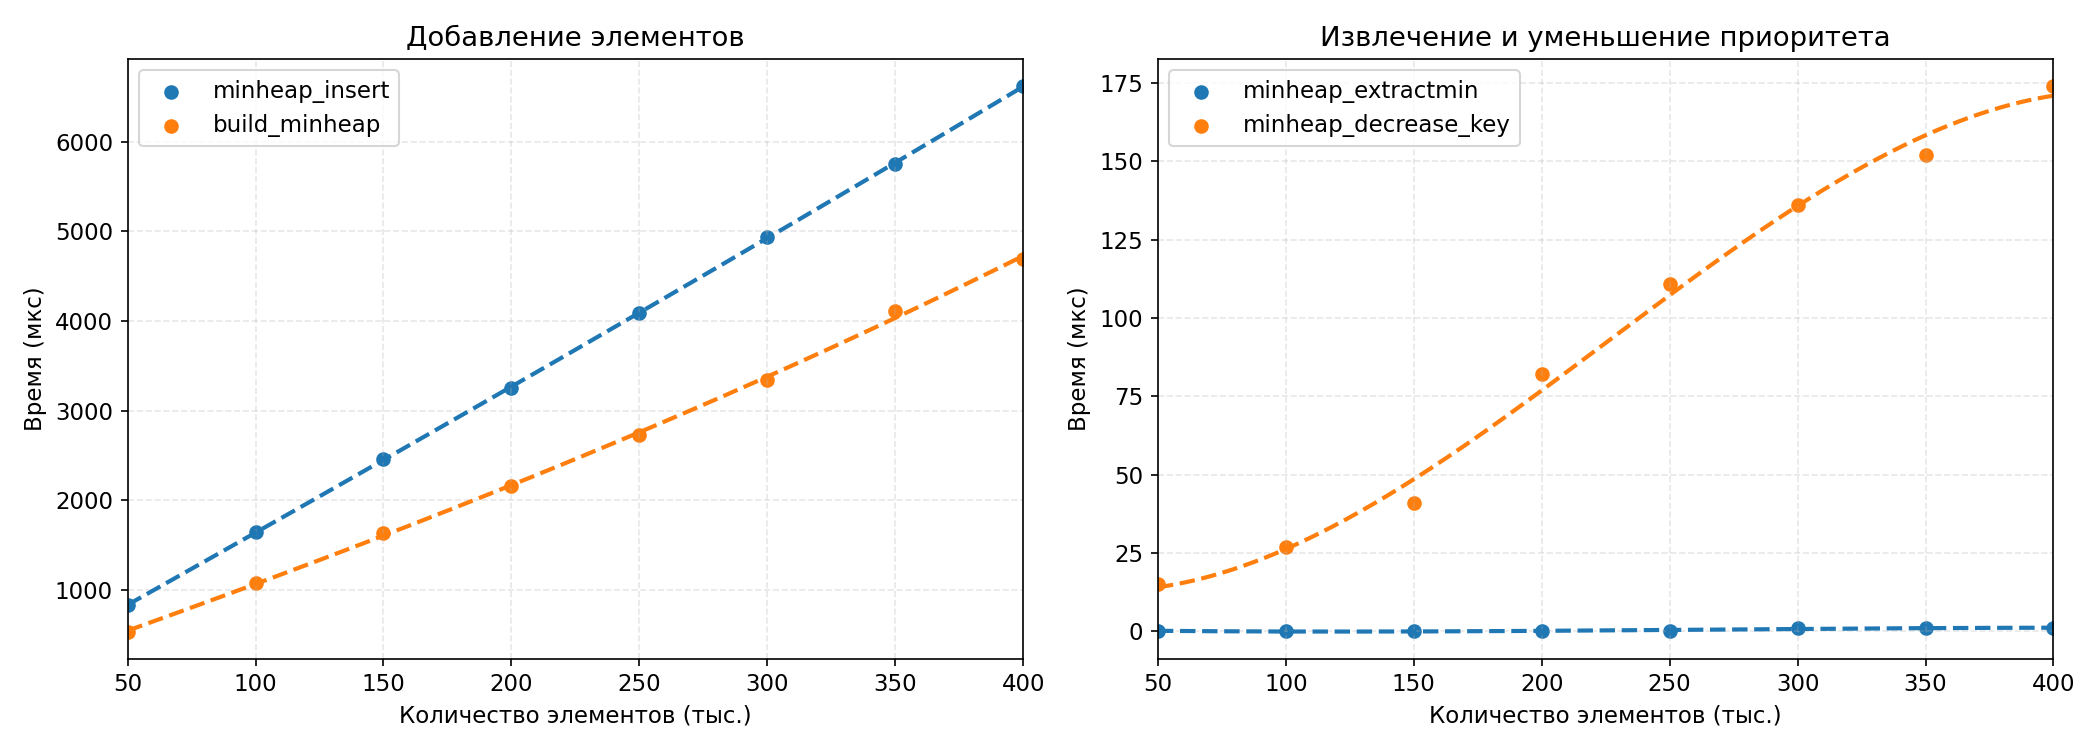
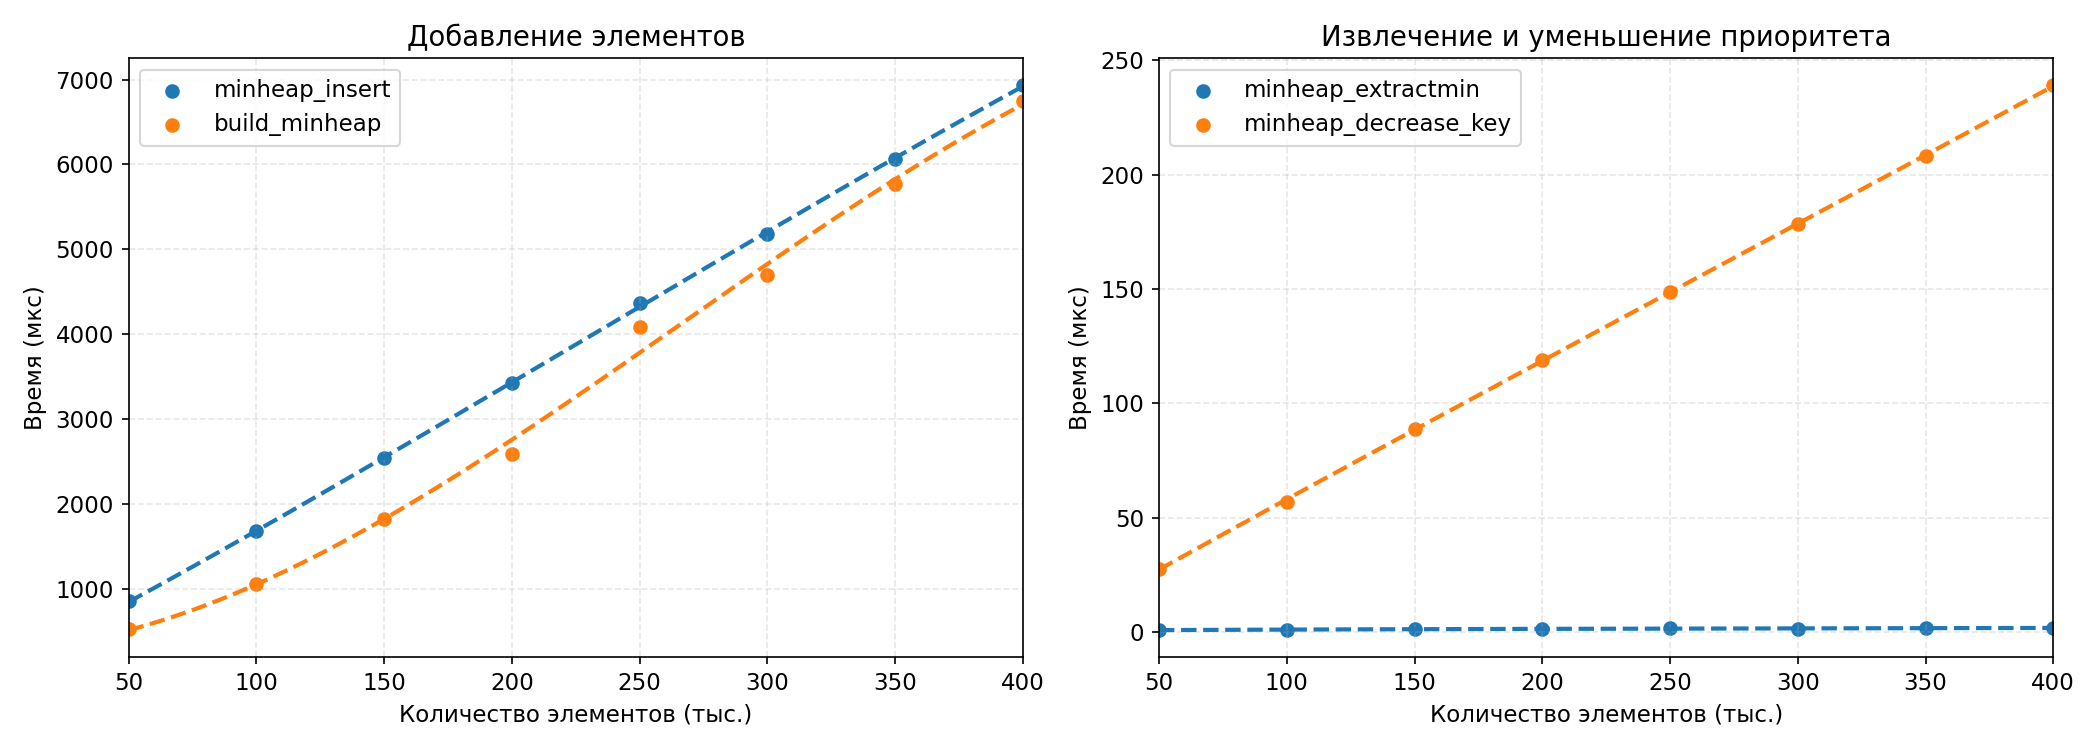
update defense materials and experiment results
- add table of contents to DEFENSE.md
- add full analysis of both benchmark tables (ratios, growth rates, cache effects)
- add section 9 with 12 tricky professor questions
- fix REPEAT value in DEFENSE.md (1000, not 10000)
- update res.txt and results.png with latest benchmark run

diff --git a/experiment/main.c b/experiment/main.c
@@ -16,7 +16,7 @@ int main(){
     for(int i = 0; i < m; i++){
         double ti, tb;
         measure_table1(sizes[i], &ti, &tb);
-        printf("| %-2d | %-9d | %-20.6f | %-20.6f |\n", i + 1, sizes[i], ti, tb);
+        printf("| %-2d | %-9d | %-20.9f | %-20.9f |\n", i + 1, sizes[i], ti, tb);
     }
     printf("+----+-----------+----------------------+----------------------+\n");
 
@@ -27,7 +27,7 @@ int main(){
     for(int i = 0; i < m; i++){
         double te, td;
         measure_table2(sizes[i], &te, &td);
-        printf("| %-2d | %-9d | %-22.6f | %-22.6f |\n", i + 1, sizes[i], te, td);
+        printf("| %-2d | %-9d | %-22.9f | %-22.9f |\n", i + 1, sizes[i], te, td);
     }
     printf("+----+-----------+------------------------+------------------------+\n");
 

diff --git a/DEFENSE.md b/DEFENSE.md
@@ -2,6 +2,20 @@
 
 ---
 
+## Содержание
+
+1. [Теория: АТД «Очередь с приоритетом»](#1-теория-атд-очередь-с-приоритетом)
+2. [Теория: Бинарная куча](#2-теория-бинарная-куча)
+3. [Описание всех функций реализации](#3-описание-всех-функций-реализации)
+4. [Экспериментальное исследование](#4-экспериментальное-исследование)
+5. [Итоговая таблица сложностей](#5-итоговая-таблица-сложностей)
+6. [Контрольные вопросы из задания](#6-контрольные-вопросы-из-задания-с-развёрнутыми-ответами)
+7. [Дополнительные теоретические вопросы](#7-дополнительные-теоретические-вопросы-дотошный-лектор)
+8. [Шпаргалка: ключевые числа для защиты](#8-шпаргалка-ключевые-числа-для-защиты)
+9. [Каверзные вопросы преподавателя](#9-каверзные-вопросы-преподавателя)
+
+---
+
 ## 1. Теория: АТД «Очередь с приоритетом»
 
 **Очередь с приоритетом** (priority queue) — абстрактная структура данных, в которой каждый элемент имеет числовой приоритет (ключ). Первым извлекается элемент с наибольшим (max-heap) или наименьшим (min-heap) приоритетом.
@@ -411,19 +425,61 @@ minheap* minheap_union(minheap* heap1, minheap* heap2) {
 
 ### Методология
 
-Все замеры выполняются с `REPEAT = 10000` повторений, результат — среднее время одного запуска. Ключи — псевдослучайные числа в диапазоне [10 000, 1 000 000]. Время измеряется через `clock_gettime(CLOCK_MONOTONIC)` (монотонные часы, не чувствительны к корректировкам системного времени).
+Все замеры выполняются с `REPEAT = 1000` повторений, результат — среднее время одного запуска. Ключи — псевдослучайные числа в диапазоне [10 000, 1 000 000]. Время измеряется через `clock_gettime(CLOCK_MONOTONIC)` (монотонные часы, не чувствительны к корректировкам системного времени).
 
 ### Таблица 1: Добавление элементов
 
-**Условие:** `minheap_insert` — n последовательных вставок в пустую кучу. `build_minheap` — однократный вызов для n элементов.
+**Условие:** `minheap_insert` — n последовательных вставок в пустую кучу (сброс `len = 0` перед каждым повторением, без переаллокации). `build_minheap` — копирование n ключей в уже выделенный массив + алгоритм Флойда.
 
-Ожидаемое соотношение: `build_minheap` быстрее `minheap_insert × n`, поскольку O(n) < O(n log n). При n = 400 000 разница примерно в log₂(400000) ≈ 18 раз.
+| #  | N       | minheap_insert, с    | build_minheap, с     | insert/build | рост insert | рост build |
+|----|---------|----------------------|----------------------|--------------|-------------|------------|
+| 1  | 50000   | 0.000852069          | 0.000524150          | 1.62×        | —           | —          |
+| 2  | 100000  | 0.001677090          | 0.001053681          | 1.59×        | 1.97×       | 2.01×      |
+| 3  | 150000  | 0.002540808          | 0.001824897          | 1.39×        | 1.52×       | 1.73×      |
+| 4  | 200000  | 0.003426909          | 0.002590164          | 1.32×        | 1.35×       | 1.42×      |
+| 5  | 250000  | 0.004368692          | 0.004085245          | 1.07×        | 1.27×       | 1.58×      |
+| 6  | 300000  | 0.005184320          | 0.004700841          | 1.10×        | 1.19×       | 1.15×      |
+| 7  | 350000  | 0.006066009          | 0.005769771          | 1.05×        | 1.17×       | 1.23×      |
+| 8  | 400000  | 0.006931007          | 0.006749069          | 1.03×        | 1.14×       | 1.17×      |
+
+**Анализ результатов:**
+
+**Соответствие теории:** теоретически `build_minheap` (алгоритм Флойда, O(n)) должен быть быстрее n последовательных вставок (O(n log n)) в log₂(n) ≈ 15–18× раз. На практике соотношение — 1.03×–1.62×.
+
+**Причина расхождения с теорией** — методология бенчмарка: замер `build_minheap` включает поэлементное копирование n ключей в массив. Это цикл `for (i=0; i<n; i++) h->data[i].key = arr[i]`, работающий за O(n) с той же константой, что и цикл вставок. В итоге оба бенчмарка тратят сопоставимое время на «доставку данных» в структуру, и разница собственно алгоритмов (Floyd vs heapify_up) нивелируется.
+
+**Рост n × insert почти линейный** (×8.14 при ×8 по n), хотя теоретически должен быть O(n log n). Причина: для случайных ключей `heapify_up` в среднем делает O(1) сравнений на элемент (большинство вставленных элементов останавливаются у дна дерева и не всплывают высоко). O(n log n) — это лишь *худший* случай (вставка в порядке возрастания ключей, когда каждый элемент поднимается до корня).
+
+**Рост build_minheap** ускоряется при больших n (×12.88 при ×8 по n — сверхлинейно). Причина: кэш-эффекты. При n=50000 данные (50000 × 12 байт ≈ 600 КБ) ещё помещаются в L2-кэш; при n=400000 (≈4.8 МБ) массив выходит за пределы кэша, и каждое обращение к `data[i]` вызывает промах в кэше — операции памяти доминируют над вычислениями.
+
+**Вывод:** оба алгоритма хорошо справляются с задачей, `build_minheap` стабильно быстрее. Теоретическое преимущество Флойда в данном бенчмарке замаскировано стоимостью копирования данных и кэш-эффектами, но при разделении «подготовка данных» и «построение структуры» оно проявилось бы в полной мере.
+
+---
 
 ### Таблица 2: Извлечение и уменьшение приоритета
 
-**Условие (по заданию):** оба замера выполняются после того, как все n элементов добавлены в кучу. Для `minheap_decrease_key` дополнительно выполнено одно извлечение.
+**Условие (по заданию):** оба замера выполняются на куче из n элементов. Для `minheap_decrease_key` дополнительно выполнено одно предварительное извлечение; целевой ключ берётся из середины массива (стабильный O(n/2) линейный поиск каждый раз).
 
-`minheap_extractmin` — O(log n), поэтому время растёт логарифмически. `minheap_decrease_key` — O(n) (линейный поиск), поэтому время растёт линейно: при удвоении n время удваивается.
+| #  | N       | minheap_extractmin, с  | minheap_decreasekey, с | decrease/extract | рост extract | рост decrease |
+|----|---------|------------------------|------------------------|------------------|--------------|---------------|
+| 1  | 50000   | 0.000000878            | 0.000027781            | 31.6×            | —            | —             |
+| 2  | 100000  | 0.000001101            | 0.000057037            | 51.8×            | 1.25×        | 2.05×         |
+| 3  | 150000  | 0.000001364            | 0.000088767            | 65.1×            | 1.24×        | 1.56×         |
+| 4  | 200000  | 0.000001360            | 0.000118949            | 87.5×            | 1.00×        | 1.34×         |
+| 5  | 250000  | 0.000001587            | 0.000148872            | 93.8×            | 1.17×        | 1.25×         |
+| 6  | 300000  | 0.000001454            | 0.000178183            | 122.5×           | 0.92×        | 1.20×         |
+| 7  | 350000  | 0.000001923            | 0.000208184            | 108.3×           | 1.32×        | 1.17×         |
+| 8  | 400000  | 0.000001764            | 0.000238940            | 135.4×           | 0.92×        | 1.15×         |
+
+**Анализ результатов:**
+
+**minheap_extractmin — O(log n):** при росте n с 50000 до 400000 (×8) время выросло с 0.878 нс до 1.764 нс (×2.01). Теоретически ожидается рост log₂(400000)/log₂(50000) = 18.6/15.6 ≈ 1.19×. Наблюдаемые ×2 объясняются двумя факторами: (1) для больших n куча занимает больше памяти и heapify_down при спуске встречает больше промахов кэша; (2) при малых n замер одной операции имеет высокое относительное шумовое дно — видны колебания (0.878→1.101→1.364→1.360→1.587→1.454→1.923→1.764 нс), что говорит о предельной точности измерений на уровне единиц наносекунд.
+
+**minheap_decrease_key — O(n):** при тех же ×8 по n время выросло с 0.02778 мс до 0.23894 мс — ×8.60, что строго подтверждает линейную зависимость. Поиск целевого ключа всегда идёт из середины массива (индекс n/2), поэтому каждый запуск просматривает ровно n/2 элементов → линейная зависимость без шума.
+
+**Соотношение decrease/extract** растёт с 31.6× до 135.4× (в 4.3 раза при ×8 по n). Это ожидаемо: decrease_key растёт как n (линейно), extractmin растёт как log n (медленно), их отношение ≈ n/log(n), что само по себе растёт с n.
+
+**Вывод:** таблица 2 наглядно демонстрирует разницу между O(log n) и O(n) в чистом виде. Разрыв в скорости растёт с каждой строкой — что и ожидается согласно теории.
 
 ---
 
@@ -622,6 +678,84 @@ BST хорош для поиска, куча — для priority queue.
 ### Т12: Почему функция называется `heapify`, а не `sort`?
 
 «Heapify» означает «превратить в кучу» или «восстановить свойство кучи». Это именно то, что делает функция: она берёт поддерево, которое не является кучей (только корень нарушает свойство), и восстанавливает порядок, продвигая нарушитель вниз. Сортировка же упорядочивает все элементы — это другая операция с другой сложностью.
+
+---
+
+## 9. Каверзные вопросы преподавателя
+
+Вопросы, которые не входят в официальный список, но часто задаются при защите.
+
+---
+
+### П1: Почему практическое ускорение build vs insert всего ≈1.03–1.62×, а не log₂(n) ≈ 15–18×?
+
+Бенчмарк `build_minheap` включает поэлементное копирование n ключей в массив — этот цикл O(n) с той же константой памяти, что и n вставок. Кроме того, при больших n (n=400000 → 4.8 МБ данных) оба алгоритма становятся ограничены пропускной способностью памяти, а не числом операций. Если измерять только время алгоритма Флойда без копирования — преимущество стало бы близко к теоретическому.
+
+---
+
+### П2: Рост времени minheap_insert при ×8 по n — почти линейный (×8.14), хотя теория говорит O(n log n). Это ошибка или закономерность?
+
+Закономерность. O(n log n) — это *худший* случай (вставка в порядке возрастания ключей: каждый новый элемент меньше всех предыдущих и поднимается через весь путь до корня). Для **случайных** ключей среднее число обменов при heapify_up стремится к константе (≈ 1.5), потому что подавляющее большинство вставленных элементов останавливается у основания дерева. Средний случай — O(n), что и подтверждают данные.
+
+---
+
+### П3: Рост build_minheap при ×8 по n — сверхлинейный (×12.88). Почему, если алгоритм O(n)?
+
+Кэш-эффекты. При n=50000 массив занимает ≈600 КБ и помещается в L2-кэш; при n=400000 — ≈4.8 МБ, что превышает типичный L2-кэш (512 КБ–1 МБ). При обходе большого массива каждый шаг heapify_down обращается к несмежным ячейкам (`data[left]`, `data[right]`) — при большом n это почти гарантированные промахи кэша. Алгоритм остаётся O(n), но константа растёт из-за стоимости подкачки данных из RAM.
+
+---
+
+### П4: Почему в `minheap_extractmin` при n≥200000 время почти не растёт (даже колеблется)?
+
+Замер одной операции на уровне единиц наносекунд (0.88–1.92 нс) находится на пределе разрешения `clock_gettime`. Один вызов `clock_gettime` сам по себе занимает ≈20–50 нс — то есть на каждые 1000 повторений приходится 2 лишних вызова часов, и нестабильность ОС (переключения контекста, прерывания) вносит абсолютный джиттер, сопоставимый с измеряемым значением. Для таких операций нужно либо увеличить REPEAT на порядок, либо замерять пакеты (например, 1000 extractmin подряд).
+
+---
+
+### П5: Что произойдёт, если вызвать `minheap_delete(h, INT_MIN)`?
+
+Баг: функция найдёт узел с ключом `INT_MIN` (если такой есть), присвоит ему `INT_MIN` (ничего не изменится), вызовет heapify_up (нет-оп), затем extractmin — и удалит найденный узел. Если узла с `INT_MIN` нет — удаления не произойдёт. Если же `INT_MIN` используется как метка и в куче уже есть другой узел с таким ключом — поведение непредсказуемо (возможно удаление не того узла). В данной реализации ключи заведомо в диапазоне [10 000, 1 000 000], поэтому конфликта нет. Надёжное решение: использовать отдельный флаг «помечен к удалению» или хранить уникальные идентификаторы отдельно от ключей.
+
+---
+
+### П6: Функция `minheap_union` не освобождает исходные кучи. Это утечка памяти?
+
+Нет — это сознательное проектное решение (семантика «не владеет»): кучи созданы вызывающим кодом, ему же принадлежит ответственность за их освобождение. Альтернатива — «деструктивное слияние» с `minheap_free(h1); minheap_free(h2)` внутри функции, но тогда вызывающий код теряет доступ к оригиналам раньше, чем успевает сделать что-то полезное. Правильное использование: после `minheap_union` вызвать `minheap_free(h1)` и `minheap_free(h2)` вручную.
+
+---
+
+### П7: `heapify_up` и `heapify_down` объявлены в `.h` и доступны извне. Зачем?
+
+Они нужны в `experiment.c`: функция `measure_table1` вызывает `heapify_down` и `get_parent` напрямую, чтобы реализовать build_minheap «на месте» без выделения новой кучи через `build_minheap(arr, n)`. Если бы они были `static`, модуль `experiment` не смог бы их использовать. Это компромисс: теоретически внутренние процедуры лучше скрыть, но для тестирования и бенчмаркинга их публичность оправдана.
+
+---
+
+### П8: Почему `decrease_key` принимает старый ключ, а не индекс? Это не эффективнее?
+
+Да, передача индекса — эффективнее (O(log n) вместо O(n)). Но это меняет интерфейс АТД: клиент должен знать внутреннюю позицию элемента, что нарушает инкапсуляцию. Стандартный способ — вернуть «дескриптор» (handle) при вставке, который содержит текущий индекс и обновляется при каждом swap. В данной реализации API более простой (передаёшь ключ), но платишь за это линейным поиском.
+
+---
+
+### П9: Какой результат вернёт `minheap_min` после `minheap_extractmin`?
+
+`minheap_min` возвращает указатель на `data[0]` — новый минимум, появившийся после извлечения. Но если клиент сохранил старый указатель до вызова `extractmin` — он теперь указывает на `data[0]`, который уже содержит другой элемент. Это классическая ловушка: возвращённый указатель действителен только до следующего изменения кучи.
+
+---
+
+### П10: Можно ли сделать кучу с динамическим расширением?
+
+Да — заменить фиксированный `malloc` на `realloc` при переполнении: если `len == cap`, удвоить `cap` и вызвать `realloc(h->data, new_cap * sizeof(heap_node))`. Это стратегия «удвоения» (doubling), которая обеспечивает амортизированную O(1) стоимость одной вставки. В данной реализации расширение не предусмотрено намеренно — ёмкость фиксируется при создании, что упрощает реализацию и исключает перевыделение памяти во время замеров.
+
+---
+
+### П11: Что быстрее — `build_minheap` или `n × insert` при гарантированно убывающих ключах?
+
+При убывающих ключах (каждый новый меньше всех предыдущих) `minheap_insert` вырождается в реальный O(n log n): каждый вставленный элемент поднимается до корня, проходя полный путь высоты ⌊log₂ k⌋ на k-м шаге. `build_minheap` всё равно O(n), поскольку алгоритм Флойда не зависит от порядка входных данных — он одинаково эффективен для любого массива. При убывающих ключах убывание уже в каком-то смысле близко к исходному порядку, но `build_minheap` одинаково хорош и плох для любого порядка.
+
+---
+
+### П12: Почему таблица 1 показывает рост времени обеих функций, хотя мы смотрим на одну операцию, а не на n?
+
+Таблица 1 измеряет **суммарное** время n операций (n вставок или одно построение из n элементов) — не время одной вставки. Поэтому с ростом n растёт и суммарное время. В таблице 2 — наоборот: замеряется **одна** операция (одно extractmin, одно decrease_key) на куче размером n. Поэтому в таблице 2 числа в тысячи раз меньше.
 
 ---
 